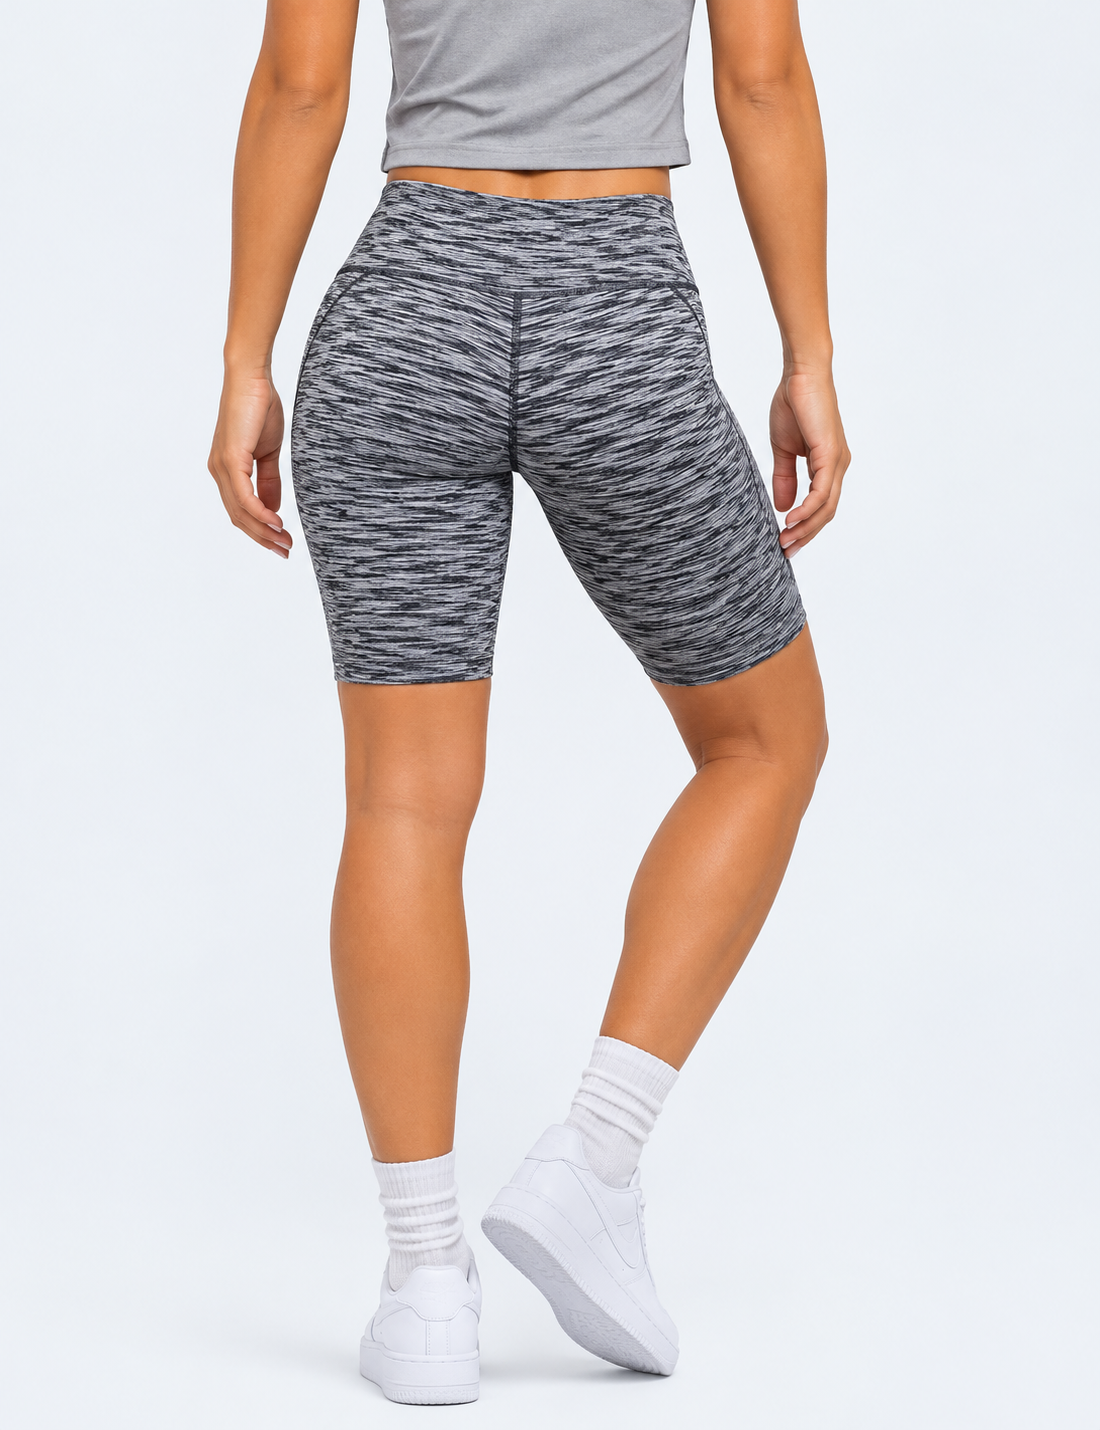
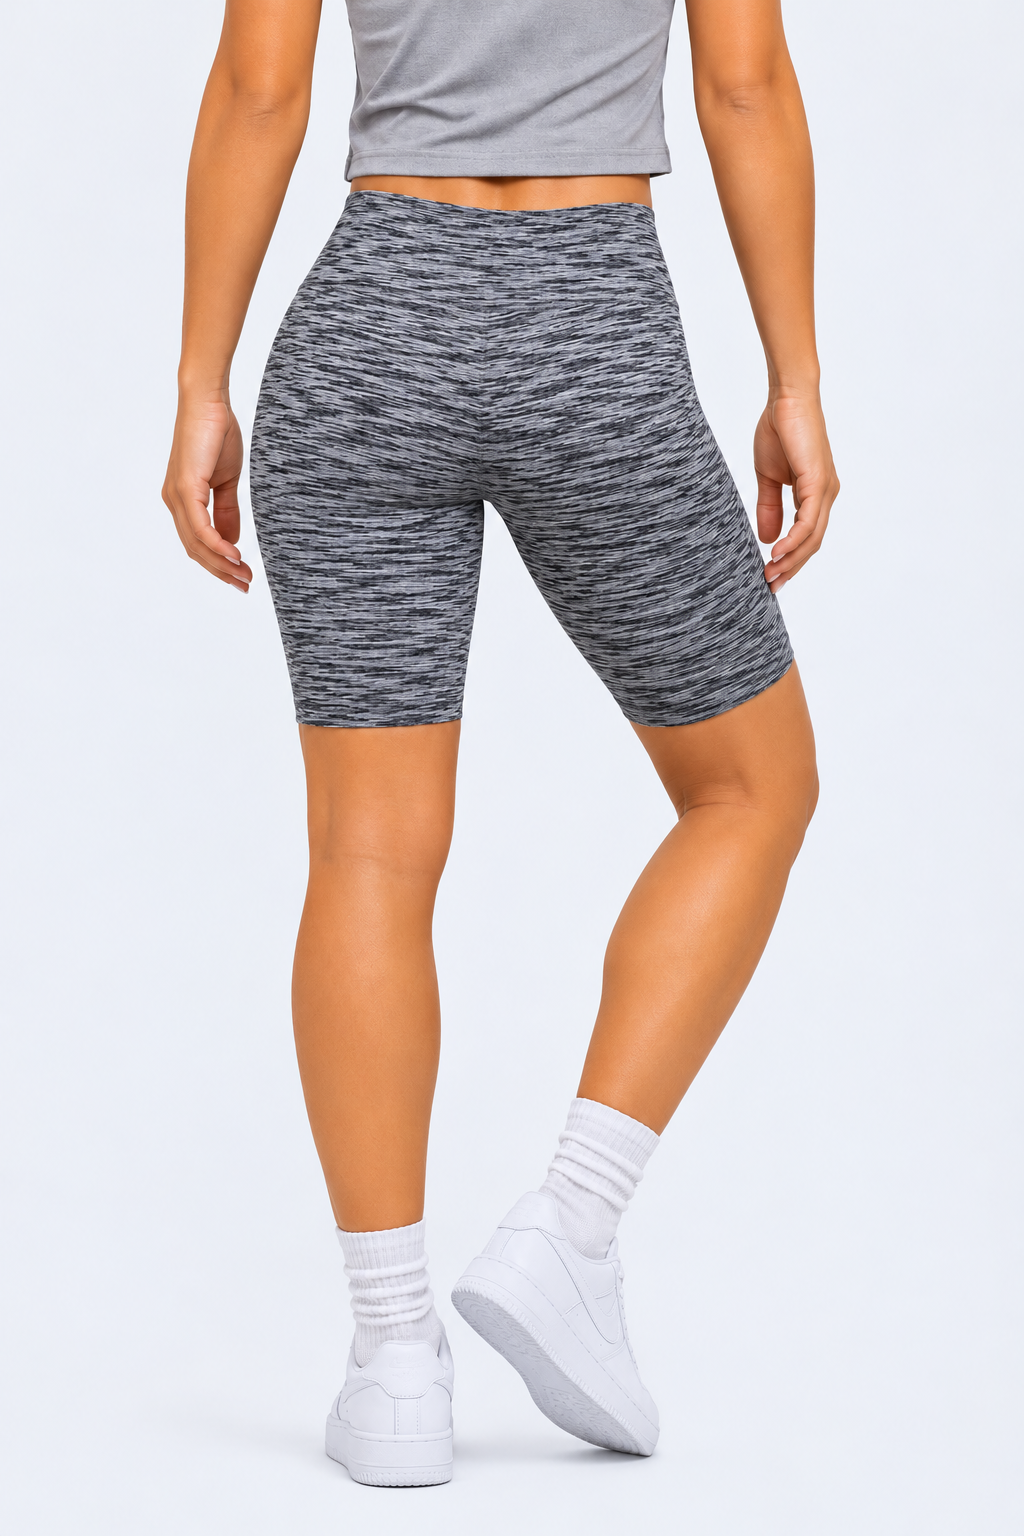
fix: mostrar vista de espalda en galería de producto

Changed region(s): [[0.1562, 0.0, 0.8438, 0.8308], [0.3125, 0.7385, 0.6562, 0.9846], [0.4062, 0.6154, 0.4375, 0.6769]]

diff --git a/frontend/public/product.html b/frontend/public/product.html
@@ -1335,7 +1335,24 @@
               color && color.secondaryImage,
               color && color.imageBack
             ].some(Boolean);
-            const gallerySources = hoverImage && (fallbackEntries.length === 1 || colorHasExplicitHover)
+            // A product-level hoverImage belongs to the default/first color when
+            // the catalog has one shared back view. Keep it in the detail gallery
+            // without attaching the same photo to every color variant.
+            const hasProductLevelHover = Boolean(
+              product && (
+                product.hoverImage
+                || product.backImage
+                || product.secondaryImage
+                || product.imageBack
+              )
+            );
+            const colorPosition = Number(color && color.index);
+            const isDefaultColor = Number.isInteger(colorPosition) ? colorPosition === 0 : index === 0;
+            const gallerySources = hoverImage && (
+              fallbackEntries.length === 1
+              || colorHasExplicitHover
+              || (hasProductLevelHover && isDefaultColor)
+            )
               ? uniqueGallerySources([list, hoverImage])
               : list;
             gallerySources.forEach((src, imageIndex) => {

diff --git a/frontend/src/templates/product.html b/frontend/src/templates/product.html
@@ -1215,7 +1215,24 @@
               color && color.secondaryImage,
               color && color.imageBack
             ].some(Boolean);
-            const gallerySources = hoverImage && (fallbackEntries.length === 1 || colorHasExplicitHover)
+            // A product-level hoverImage belongs to the default/first color when
+            // the catalog has one shared back view. Keep it in the detail gallery
+            // without attaching the same photo to every color variant.
+            const hasProductLevelHover = Boolean(
+              product && (
+                product.hoverImage
+                || product.backImage
+                || product.secondaryImage
+                || product.imageBack
+              )
+            );
+            const colorPosition = Number(color && color.index);
+            const isDefaultColor = Number.isInteger(colorPosition) ? colorPosition === 0 : index === 0;
+            const gallerySources = hoverImage && (
+              fallbackEntries.length === 1
+              || colorHasExplicitHover
+              || (hasProductLevelHover && isDefaultColor)
+            )
               ? uniqueGallerySources([list, hoverImage])
               : list;
             gallerySources.forEach((src, imageIndex) => {
